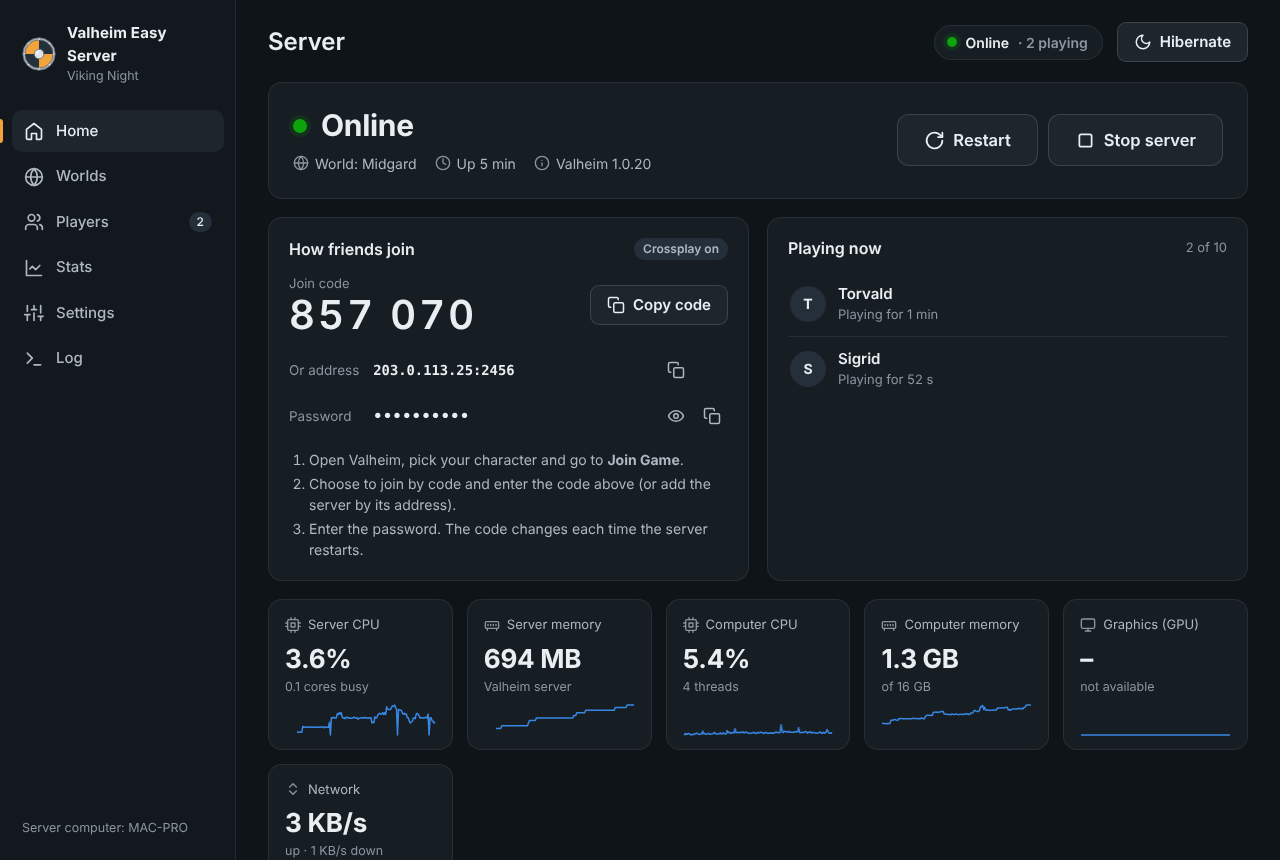
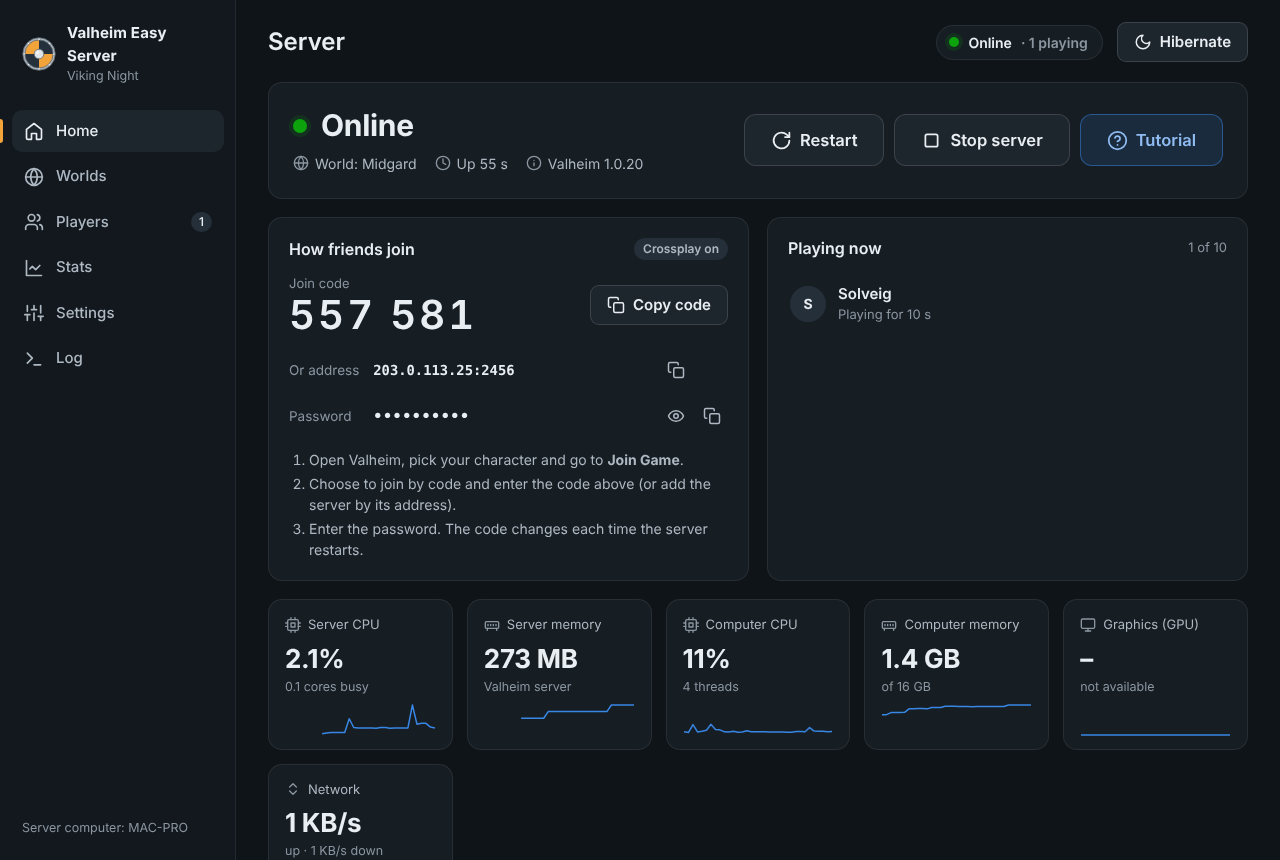
Add a Tutorial button that explains starting and stopping the server
The Home page has a big Tutorial button right next to Start server and
Stop server. It opens a five-step guide with pictures made from the
panel's own buttons: starting the world, joining from Valheim, stopping
it, switching worlds, and hibernating at the end of the day. Back, Next,
the step dots and the arrow keys move between steps, and the window keeps
one size so its buttons stay put.

Also:
- the status card puts its buttons under the status when the window is
  too narrow for both side by side
- dialogs ignore a click outside them just after they open, so a
  double-click on a button no longer opens and closes its dialog at once
- README and READ-ME-FIRST mention the tutorial; the home screenshot is
  refreshed and a tutorial screenshot added

Claude-Session: https://claude.ai/code/session_01Ekx5qMqLB1h6gHQcZYRXnE

diff --git a/internal/web/ui/assets/tutorial.js b/internal/web/ui/assets/tutorial.js
@@ -1,0 +1,172 @@
+// Tutorial: a short guide to starting and stopping the server, opened with
+// the Tutorial button on the Home page. Its pictures are made of the panel's
+// own buttons and status labels, so they look like the real ones, but they're
+// only pictures: nothing in them can be clicked.
+
+import { h, icon, openModal } from './dom.js';
+import { restWord } from './app.js';
+
+let isOpen = false;
+
+const b = (text) => h('b', null, text);
+const fakeButton = (cls, ic, label) => h('span', { class: `btn ${cls}` }, icon(ic), label);
+const pill = (dot, label) => h('span', { class: 'status-pill' }, h('span', { class: `dot ${dot}` }), label);
+// press marks the control to click with a mouse pointer.
+const press = (el) => h('span', { class: 'tut-press' }, el, icon('pointer', 'tut-pointer'));
+
+// flow shows stages from left to right with arrows between them (top to
+// bottom where there's no room). Each stage is [picture, caption].
+function flow(...stages) {
+  const col = (el, c) => { el.style.setProperty('--c', c); return el; };
+  return h('div', { class: 'tut-flow' }, stages.map(([pic, caption], i) => [
+    i ? col(h('span', { class: 'tut-arrow' }, icon('arrowRight')), 2 * i) : null,
+    col(h('div', { class: 'tut-pic' }, pic), 2 * i + 1),
+    col(h('span', { class: 'tut-caption' }, caption), 2 * i + 1),
+  ]));
+}
+
+function joinPicture(crossplay) {
+  return h('div', { class: 'tut-join' },
+    crossplay
+      ? [h('span', { class: 'muted small' }, 'Join code'), h('span', { class: 'join-code' }, '123 456')]
+      : [h('span', { class: 'muted small' }, 'Address'), h('span', { class: 'mono tut-addr' }, '203.0.113.25:2456')],
+    h('span', { class: 'small' }, h('span', { class: 'muted' }, 'Password '), h('span', { class: 'pw' }, '••••••••')));
+}
+
+const worldCard = (name, playing, extra) =>
+  h('div', { class: `tut-world${playing ? ' playing' : ''}` }, h('span', { class: 'world-name' }, name), extra);
+
+function steps(st) {
+  const rest = restWord(st);
+  const sleep = rest === 'Sleep';
+  const crossplay = !st || st.join.crossplay;
+  return [
+    {
+      icon: 'play',
+      title: 'Start the world',
+      picture: flow(
+        [press(fakeButton('btn-primary btn-lg', 'play', 'Start server')), 'Click it'],
+        [pill('warn', 'Starting…'), 'The world loads'],
+        [pill('good', 'Online'), 'Ready to play']),
+      text: [
+        ['On the Home page, click ', b('Start server'), '. The server loads the world shown next to ', b('World'), '.'],
+        ['This takes a minute or two, longer after a Valheim update. When the light turns green and it says ', b('Online'), ', the world is ready.'],
+      ],
+    },
+    {
+      icon: 'users',
+      title: 'Join from Valheim',
+      picture: flow(
+        [h('div', { class: 'tut-game' }, h('span', { class: 'muted small' }, 'Valheim'), press(h('span', { class: 'tut-game-button' }, 'Join Game'))), 'In the game'],
+        [joinPicture(crossplay), 'From the Home page']),
+      text: crossplay
+        ? [
+          ['In Valheim, pick your character and go to ', b('Join Game'), '. Choose to join by code and type the ', b('join code'), ' from ', b('How friends join'), ' on the Home page, then the password.'],
+          ['The join code changes every time the server starts, so check it again after a restart.'],
+        ]
+        : [
+          ['In Valheim, pick your character and go to ', b('Join Game'), '. Add the server by the address from ', b('How friends join'), ' on the Home page, then enter the password.'],
+        ],
+    },
+    {
+      icon: 'stop',
+      title: 'Stop the world',
+      picture: flow(
+        [press(fakeButton('btn-lg', 'stop', 'Stop server')), 'Click it'],
+        [pill('warn', 'Stopping…'), 'The world is saved'],
+        [pill('', 'Offline'), 'Safe to turn off']),
+      text: [
+        ['Click ', b('Stop server'), '. The world is saved first, then the server shuts down. If anyone is still playing, the panel asks first, because they’ll be disconnected.'],
+        ['Wait until it says ', b('Offline'), ' before you turn off or restart the computer.'],
+        ['Closing this window doesn’t stop the server. It keeps running, and the shield icon next to the clock opens the panel again.'],
+      ],
+    },
+    {
+      icon: 'globe',
+      title: 'Play a different world',
+      picture: flow(
+        [worldCard('Midgard', true, h('span', { class: 'badge good' }, 'Running now')), 'The world it plays now'],
+        [worldCard('Ashlands Run', false, press(fakeButton('btn-primary btn-sm', 'play', 'Switch to this world'))), 'Click to play this one']),
+      text: [
+        ['The server plays one world at a time. To change it, open ', b('Worlds'), ' and click ', b('Play this world'), ' on the one you want.'],
+        ['While the server is running, that button says ', b('Switch to this world'), '. The server saves the current world and restarts with the new one, which takes about a minute.'],
+      ],
+    },
+    {
+      icon: 'moon',
+      title: 'Done for the day',
+      picture: flow(
+        [press(fakeButton('', 'moon', rest)), 'Click it'],
+        [h('span', { class: 'status-pill' }, icon('moon'), sleep ? 'Asleep' : 'Hibernating'), sleep ? 'Uses very little power' : 'Uses no power'],
+        [pill('good', 'Online'), 'Back after waking up']),
+      text: [
+        ['Click ', b(rest), ' at the top of any page. It saves the world, stops the server and ', sleep ? 'puts the computer to sleep.' : 'hibernates the computer.'],
+        ['To play again, wake the computer with Wake-on-LAN from the IP KVM, or press its power button. If the server was running, it starts again by itself.'],
+        ['You can open this tutorial again any time with the ', b('Tutorial'), ' button on the Home page.'],
+      ],
+    },
+  ];
+}
+
+export function openTutorial(app) {
+  if (isOpen) return;
+  isOpen = true;
+  const list = steps(app.status);
+  const last = list.length - 1;
+  let at = 0;
+
+  // Every page is drawn in the same place and only the current one shows, so
+  // the window keeps its size and the buttons stay put from step to step.
+  const pages = list.map((s, i) => h('section', { class: 'tut-page' },
+    h('div', { class: 'tut-figure', inert: true, 'aria-hidden': 'true' }, s.picture),
+    h('div', { class: 'tut-head' },
+      h('span', { class: 'tut-icon' }, icon(s.icon)),
+      h('div', null, h('div', { class: 'tut-step' }, `Step ${i + 1} of ${list.length}`), h('h3', null, s.title))),
+    h('div', { class: 'tut-text' }, s.text.map((p) => h('p', null, p)))));
+  const live = h('p', { class: 'sr-only', 'aria-live': 'polite' });
+  const dots = h('div', { class: 'tut-dots' }, list.map((s, i) =>
+    h('button', { type: 'button', 'aria-label': `Step ${i + 1}: ${s.title}`, onclick: () => show(i) })));
+
+  const onKey = (e) => {
+    if (e.key === 'ArrowRight') show(at + 1);
+    else if (e.key === 'ArrowLeft') show(at - 1);
+    else return;
+    e.preventDefault();
+  };
+  const modal = openModal({
+    title: 'Tutorial',
+    wide: true,
+    body: [h('div', { class: 'tut-pages' }, pages), live],
+    actions: [{ label: 'Back' }, { label: 'Next', kind: 'primary' }],
+    onClose: () => {
+      isOpen = false;
+      document.removeEventListener('keydown', onKey);
+    },
+  });
+  // Plain handlers: the dialog's own ones disable a button while it works,
+  // which would take the keyboard focus off Next at every step.
+  const [back, next] = modal.foot.children;
+  back.onclick = () => show(at - 1);
+  next.onclick = () => (at === last ? modal.close() : show(at + 1));
+  modal.foot.prepend(dots);
+  document.addEventListener('keydown', onKey);
+
+  function show(i) {
+    at = Math.max(0, Math.min(last, i));
+    pages.forEach((p, n) => {
+      p.classList.toggle('on', n === at);
+      if (n === at) p.removeAttribute('aria-hidden');
+      else p.setAttribute('aria-hidden', 'true');
+    });
+    [...dots.children].forEach((d, n) => {
+      d.className = n === at ? 'on' : n < at ? 'seen' : '';
+      d.setAttribute('aria-current', n === at ? 'step' : 'false');
+    });
+    back.hidden = at === 0;
+    back.replaceChildren(icon('arrowLeft'), 'Back');
+    next.replaceChildren(...(at === last ? [icon('check'), 'Done'] : ['Next', icon('arrowRight')]));
+    live.textContent = `Step ${at + 1} of ${list.length}: ${list[at].title}`;
+    if (document.activeElement === back && back.hidden) next.focus();
+  }
+  show(0);
+}

diff --git a/internal/web/ui/assets/app.css b/internal/web/ui/assets/app.css
@@ -23,6 +23,12 @@
   --bad: #d03b3b;
   --bad-text: #f07171;
   --bad-soft: rgba(208, 59, 59, .15);
+  --info: #3987e5;
+  --info-text: #8fbcf2;
+  --info-soft: rgba(57, 135, 229, .14);
+  --game: #2b2119;
+  --game-line: #6a5136;
+  --game-ink: #f3e3c8;
   --series-1: #3987e5;
   --series-2: #d95926;
   --series-3: #199e70;
@@ -135,6 +141,8 @@ code, .mono { font-family: var(--mono); font-size: .92em; }
 .btn-danger:hover { background: var(--bad-soft); }
 .btn-ghost { background: transparent; border-color: transparent; color: var(--text-2); }
 .btn-ghost:hover { background: var(--surface-2); color: var(--text); }
+.btn-guide { background: var(--info-soft); border-color: rgba(57, 135, 229, .5); color: var(--info-text); }
+.btn-guide:hover { background: rgba(57, 135, 229, .24); }
 .btn-lg { min-height: 52px; padding: 0 26px; font-size: 16.5px; border-radius: 12px; }
 .btn-lg svg { width: 21px; height: 21px; }
 .btn-sm { min-height: 32px; padding: 0 11px; font-size: 13.5px; border-radius: 8px; }
@@ -160,16 +168,17 @@ code, .mono { font-family: var(--mono); font-size: .92em; }
 .badge.warn { background: var(--warn-soft); color: var(--warn); }
 .badge.bad { background: var(--bad-soft); color: var(--bad-text); }
 
-/* hero */
-.hero { display: grid; grid-template-columns: minmax(0, 1fr) auto; gap: 18px 28px; align-items: center; padding: 24px; }
+/* hero: the status on the left and its buttons on the right, or below it when there's no room */
+.hero { display: flex; flex-wrap: wrap; gap: 18px 28px; align-items: center; padding: 24px; }
+.hero > :first-child { flex: 1 1 300px; min-width: 0; }
 .hero-state { display: flex; align-items: center; gap: 14px; }
 .hero-state .dot { width: 14px; height: 14px; }
 .hero h2 { font-size: 30px; font-weight: 650; letter-spacing: -.01em; }
 .hero .facts { display: flex; flex-wrap: wrap; gap: 6px 18px; color: var(--text-2); margin-top: 8px; font-size: 14px; }
 .hero .facts span { display: inline-flex; align-items: center; gap: 6px; }
 .hero .facts svg { width: 16px; height: 16px; color: var(--muted); }
-.hero-actions { display: flex; gap: 10px; flex-wrap: wrap; justify-content: flex-end; }
-.hero .jobline { grid-column: 1 / -1; }
+.hero-actions { display: flex; gap: 10px; flex-wrap: wrap; }
+.hero .jobline { flex-basis: 100%; }
 
 .progress { height: 8px; background: var(--surface-3); border-radius: 99px; overflow: hidden; margin-top: 10px; }
 .progress > i { display: block; height: 100%; background: var(--accent); border-radius: 99px; transition: width .4s ease; }
@@ -396,6 +405,61 @@ tr:last-child td { border-bottom: 0; }
 @keyframes fade { from { opacity: 0; } }
 @keyframes rise { from { transform: translateY(8px); opacity: 0; } }
 
+/* tutorial: every page sits in the same grid cell, so the window keeps its size */
+.tut-pages { display: grid; }
+.tut-page { grid-area: 1 / 1; display: flex; flex-direction: column; gap: 18px; visibility: hidden; min-width: 0; }
+.tut-page.on { visibility: visible; animation: fade .2s ease-out; }
+.tut-figure {
+  container-type: inline-size; padding: 26px 18px 20px; border-radius: var(--radius); background: var(--bg-2);
+  border: 1px solid var(--line); pointer-events: none; user-select: none;
+}
+.tut-flow { display: grid; justify-content: center; justify-items: center; align-items: center; column-gap: 14px; row-gap: 12px; }
+.tut-pic, .tut-arrow { grid-row: 1; grid-column: var(--c); }
+.tut-caption { grid-row: 2; grid-column: var(--c); align-self: start; max-width: 170px; text-align: center; font-size: 13px; line-height: 1.35; color: var(--muted); }
+.tut-arrow { display: flex; color: var(--muted); }
+.tut-arrow svg { width: 20px; height: 20px; }
+.tut-figure .status-pill svg { width: 16px; height: 16px; color: var(--muted); }
+.tut-press { position: relative; display: inline-flex; }
+.tut-press > :first-child { box-shadow: 0 0 0 3px var(--bg-2), 0 0 0 5px var(--info); }
+.tut-pointer {
+  position: absolute; right: -14px; bottom: -18px; width: 26px; height: 26px; fill: #fff; stroke: #0b0f12; stroke-width: 1.6;
+  filter: drop-shadow(0 2px 3px rgba(0, 0, 0, .45)); animation: tap 2.6s ease-in-out infinite;
+}
+@keyframes tap { 0%, 55%, 80%, 100% { transform: none; } 65% { transform: translate(-2px, -2px) scale(.88); } }
+.tut-game { display: flex; flex-direction: column; align-items: center; gap: 8px; }
+.tut-game-button {
+  display: inline-flex; align-items: center; min-height: 40px; padding: 0 20px; border-radius: 6px; background: var(--game);
+  border: 1px solid var(--game-line); color: var(--game-ink); font-weight: 700; font-size: 14px; letter-spacing: .08em; text-transform: uppercase;
+}
+.tut-join, .tut-world {
+  display: flex; flex-direction: column; gap: 2px; padding: 12px 16px; border-radius: 12px; background: var(--surface);
+  border: 1px solid var(--line); text-align: left;
+}
+.tut-join .join-code { font-size: 30px; }
+.tut-addr { font-size: 16px; font-weight: 600; color: var(--text); }
+.tut-world { align-items: flex-start; gap: 12px; width: 230px; max-width: 100%; }
+.tut-world.playing { border-color: rgba(242, 163, 58, .55); }
+.tut-world .world-name { font-size: 16px; }
+.tut-head { display: flex; align-items: center; gap: 14px; }
+.tut-icon { width: 44px; height: 44px; flex: none; display: grid; place-items: center; border-radius: 12px; background: var(--info-soft); color: var(--info-text); }
+.tut-icon svg { width: 22px; height: 22px; }
+.tut-step { font-size: 12px; font-weight: 600; letter-spacing: .08em; text-transform: uppercase; color: var(--muted); }
+.tut-head h3 { font-size: 20px; color: var(--text); text-wrap: balance; }
+.tut-text { display: flex; flex-direction: column; gap: 8px; max-width: 64ch; }
+.tut-text b { color: var(--text); font-weight: 600; }
+.tut-dots { display: flex; gap: 2px; margin-right: auto; }
+.tut-dots button { width: 30px; height: 28px; padding: 0; border: 0; border-radius: 6px; background: none; cursor: pointer; display: grid; place-items: center; }
+.tut-dots button::before { content: ""; width: 22px; height: 6px; border-radius: 99px; background: var(--surface-3); transition: background .15s; }
+.tut-dots button:hover::before { background: var(--muted); }
+.tut-dots button.seen::before { background: rgba(57, 135, 229, .45); }
+.tut-dots button.on::before { background: var(--info); }
+@container (max-width: 560px) {
+  .tut-flow { row-gap: 6px; }
+  .tut-pic, .tut-arrow, .tut-caption { grid-row: auto; grid-column: 1; }
+  .tut-caption { max-width: none; margin-bottom: 4px; }
+  .tut-arrow svg { transform: rotate(90deg); }
+}
+
 .dl-progress { display: flex; flex-direction: column; gap: 4px; min-width: 150px; flex: 1 1 150px; }
 .dl-progress .progress { margin-top: 0; }
 
@@ -483,15 +547,19 @@ kbd { font-family: var(--mono); font-size: 12px; background: var(--surface-3); b
   .nav .count { position: absolute; top: 2px; right: calc(50% - 22px); padding: 0 5px; font-size: 10.5px; }
   .main { padding: 16px 16px 96px; }
   .grid-2, .grid-3 { grid-template-columns: minmax(0, 1fr); }
-  .hero { grid-template-columns: minmax(0, 1fr); padding: 20px; }
+  .hero { padding: 20px; }
   .hero h2 { font-size: 26px; }
-  .hero-actions { justify-content: stretch; }
+  .hero-actions { flex-basis: 100%; }
   .hero-actions .btn { flex: 1; }
   .topbar h1 { font-size: 21px; }
   .join-code { font-size: 34px; }
   .kv { column-gap: 8px; }
   .kv dd.mono { font-size: 12.5px; }
   .console { height: calc(100vh - 260px); }
+}
+@media (max-width: 480px) {
+  .tut-dots { display: none; }
+  .tut-head h3 { font-size: 18px; }
 }
 @media (prefers-reduced-motion: reduce) {
   *, *::before, *::after { animation-duration: .01ms !important; animation-iteration-count: 1 !important; transition: none !important; }

diff --git a/internal/web/ui/assets/dom.js b/internal/web/ui/assets/dom.js
@@ -106,6 +106,10 @@ const ICONS = {
   wrench: '<path d="M14.7 6.3a1 1 0 0 0 0 1.4l1.6 1.6a1 1 0 0 0 1.4 0l3.8-3.8a6 6 0 0 1-7.9 7.9l-6.9 6.9a2.1 2.1 0 0 1-3-3l6.9-6.9a6 6 0 0 1 7.9-7.9z"/>',
   sparkle: '<path d="M12 3v4M12 17v4M3 12h4M17 12h4M5.6 5.6l2.8 2.8M15.6 15.6l2.8 2.8M5.6 18.4l2.8-2.8M15.6 8.4l2.8-2.8"/>',
   table: '<rect x="3" y="3" width="18" height="18" rx="2"/><path d="M3 9h18M3 15h18M9 3v18"/>',
+  help: '<circle cx="12" cy="12" r="10"/><path d="M9.1 9a3 3 0 0 1 5.8 1c0 2-3 3-3 3"/><line x1="12" y1="17" x2="12.01" y2="17"/>',
+  arrowRight: '<line x1="5" y1="12" x2="19" y2="12"/><polyline points="12 5 19 12 12 19"/>',
+  arrowLeft: '<line x1="19" y1="12" x2="5" y2="12"/><polyline points="12 19 5 12 12 5"/>',
+  pointer: '<path d="M4 3l7 17 2.5-7.5L21 10z"/>',
 };
 
 const tpl = document.createElement('template');
@@ -251,7 +255,10 @@ export function openModal({ title, body, actions = [], wide = false, onClose }) 
     h('div', { class: 'modal-body' }, body),
     actions.length ? foot : null);
   const backdrop = h('div', { class: 'modal-backdrop' }, modal);
-  backdrop.addEventListener('mousedown', (e) => { if (e.target === backdrop) close(); });
+  // A click outside closes the dialog, but not the second click of a
+  // double-click on the button that opened it.
+  const opened = Date.now();
+  backdrop.addEventListener('mousedown', (e) => { if (e.target === backdrop && Date.now() - opened > 600) close(); });
   document.addEventListener('keydown', onKey);
   root.append(backdrop);
   const first = modal.querySelector('input, select, textarea') || foot.querySelector('.btn-primary, .btn-danger') || closeBtn;

diff --git a/internal/web/ui/assets/app.js b/internal/web/ui/assets/app.js
@@ -9,6 +9,7 @@ import stats from './stats.js';
 import settings from './settings.js';
 import logPage from './log.js';
 import { initUploads, uploadStatus, ownsJob } from './upload.js';
+import { openTutorial } from './tutorial.js';
 
 const PAGES = [home, worlds, players, stats, settings, logPage];
 
@@ -238,6 +239,7 @@ A['dismiss-job'] = (d) => {
 };
 A['show-log'] = () => go('log');
 A['show-settings'] = () => go('settings');
+A.tutorial = () => openTutorial(app);
 A.reveal = (d, el) => {
   const target = document.getElementById(d.target);
   if (!target) return;

diff --git a/internal/web/ui/assets/home.js b/internal/web/ui/assets/home.js
@@ -70,6 +70,9 @@ function hero(app) {
   } else {
     actions = [h('button', { class: 'btn btn-danger', 'data-action': 'force-stop' }, icon('power'), 'Force stop')];
   }
+  // Always here, next to the server buttons, so it's as easy to find as they are.
+  actions.push(h('button', { class: 'btn btn-lg btn-guide', 'data-action': 'tutorial', title: 'A short guide to starting and stopping the server' },
+    icon('help'), 'Tutorial'));
 
   const extra = [];
   if (job) extra.push(jobLine(job));

diff --git a/README.md b/README.md
@@ -7,6 +7,7 @@ Run a Valheim dedicated server on a spare Windows PC, such as an old Mac Pro run
 ## What it does
 
 - **Start and stop with one button.** Stopping always saves the world first, the same way the official guide does it (Ctrl+C), just without the console window.
+- **A tutorial for friends.** The **Tutorial** button, right next to Start server, explains the basics in five short steps with pictures of the real buttons: starting the server, joining from Valheim, stopping, switching worlds and hibernating.
 - **How to join, always visible.** The panel shows the crossplay join code, the address and the password, with copy buttons. Crossplay codes work without setting up your router.
 - **Several worlds.** Switch worlds with one click, create new ones (with Valheim's difficulty presets and modifiers), rename old ones, and delete worlds. Deleted worlds keep a backup.
 - **Add a world by dropping it in.** Drop a world onto the app (a Valheim 1.0 world folder, an older `.fwl` + `.db` pair, or a zip of either) and it goes into the server's worlds folder by itself. The app only asks when the server already has a world with that name: replace it (keeping a backup) or keep both. Replacing the world that's running restarts the server with the new copy. Any world can be downloaded as a zip, and "Import from this PC" copies worlds from the Valheim game installed on the server computer.
@@ -17,9 +18,9 @@ Run a Valheim dedicated server on a spare Windows PC, such as an old Mac Pro run
 - **Looks after itself.** It updates the server through Steam before each start, so friends never get a "version mismatch". It restarts the server after a crash and keeps Windows from falling asleep while people play. Closing the window doesn't stop the server, and the app picks it back up when it starts again.
 - **Only on this computer.** The control panel only works on the server computer itself, so there's no password to set up and nothing for strangers to reach. Friends use it through an IP KVM or remote desktop, the same way they'd use the computer.
 
-| Worlds | Adding a world | Stats | Players |
-|---|---|---|---|
-| ![Worlds](docs/screenshots/worlds.png) | ![Adding a world](docs/screenshots/add-world.png) | ![Stats](docs/screenshots/stats.png) | ![Players](docs/screenshots/players.png) |
+| Tutorial | Worlds | Adding a world | Stats | Players |
+|---|---|---|---|---|
+| ![Tutorial](docs/screenshots/tutorial.png) | ![Worlds](docs/screenshots/worlds.png) | ![Adding a world](docs/screenshots/add-world.png) | ![Stats](docs/screenshots/stats.png) | ![Players](docs/screenshots/players.png) |
 
 ## Getting it
 
@@ -56,6 +57,7 @@ Everyone needs the same Valheim version as the server. The app updates the serve
 The app is made to be used on the server computer itself, so anyone who can see its screen and use its keyboard and mouse can run it, including friends connected through an IP KVM or remote desktop.
 
 - The control panel is the **Valheim Easy Server** window. If it was closed, click the shield icon next to the clock or double-click `ValheimEasyServer.exe` again.
+- New to the panel? Click **Tutorial** on the Home page, next to **Start server**.
 - Files you drop on **Add a world** must be on the server computer. Bring them over on a USB stick, through the KVM's virtual drive if it has one, or by downloading them there from a chat or cloud drive.
 - After **Hibernate** (or **Sleep**), wake the computer with the KVM's Wake-on-LAN. The address it needs is in **Settings → Resting and waking up**.
 - **Download** saves files on the server computer, because that's the computer the KVM shows. It asks where to save: choose a cloud-drive folder (such as OneDrive) or a USB stick, so you can get the file on your own PC.
